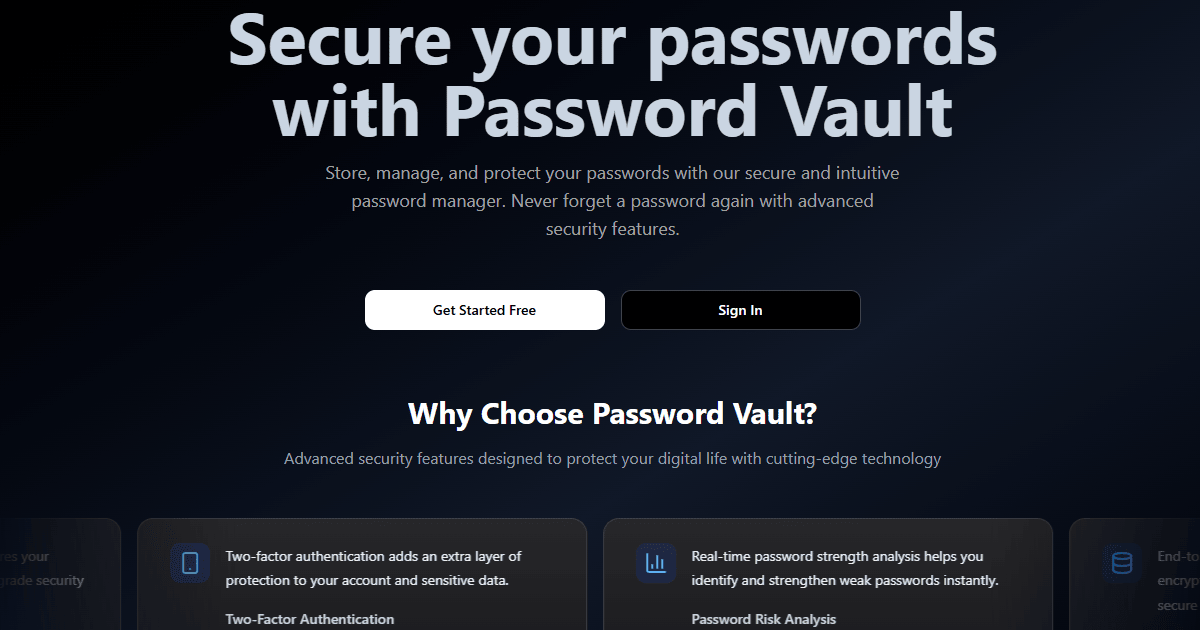
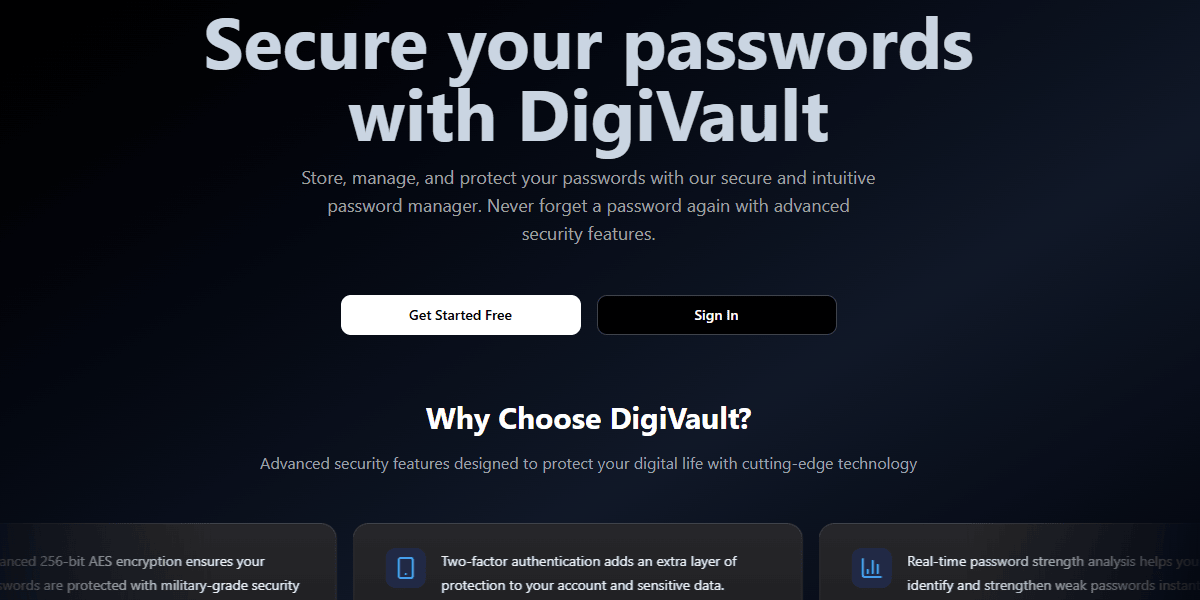
Update og-image.png

diff --git a/src/app/layout.tsx b/src/app/layout.tsx
@@ -60,7 +60,7 @@ export const metadata: Metadata = {
       {
         url: "/og-image.png",
         width: 1200,
-        height: 630,
+        height: 600,
         alt: "DigiVault - Secure Password Manager & Digital Vault",
       },
     ],
@@ -83,9 +83,6 @@ export const metadata: Metadata = {
       "max-image-preview": "large",
       "max-snippet": -1,
     },
-  },
-  verification: {
-    google: "your-google-verification-code",
   },
   alternates: {
     canonical: "https://digivault.vercel.app",
